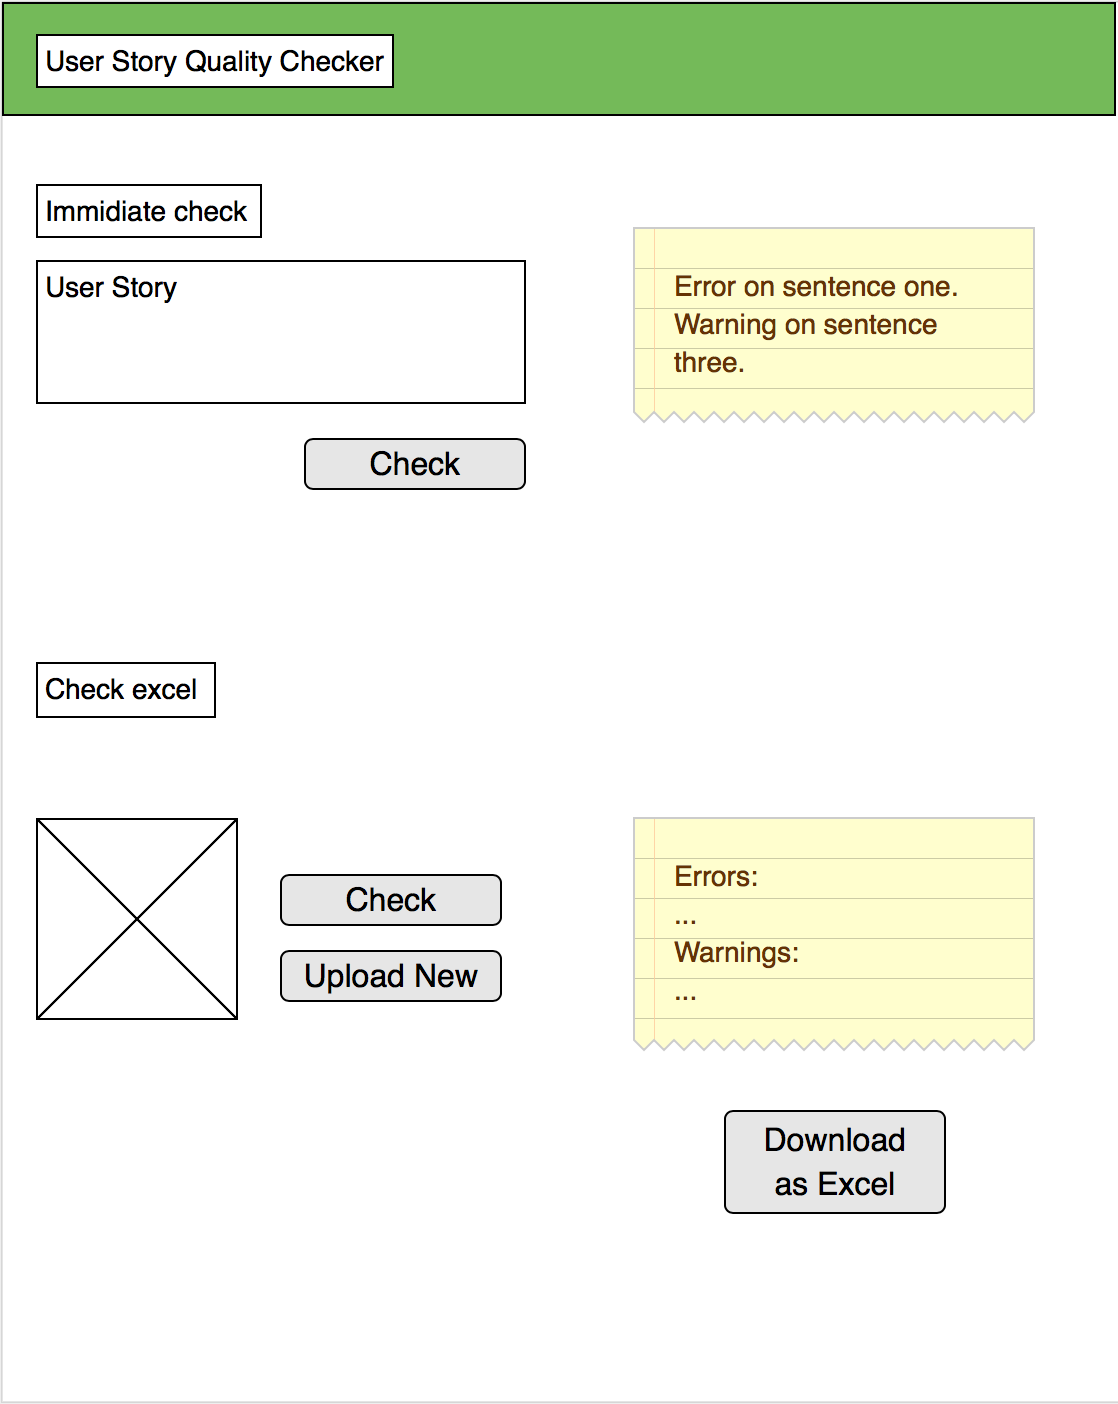
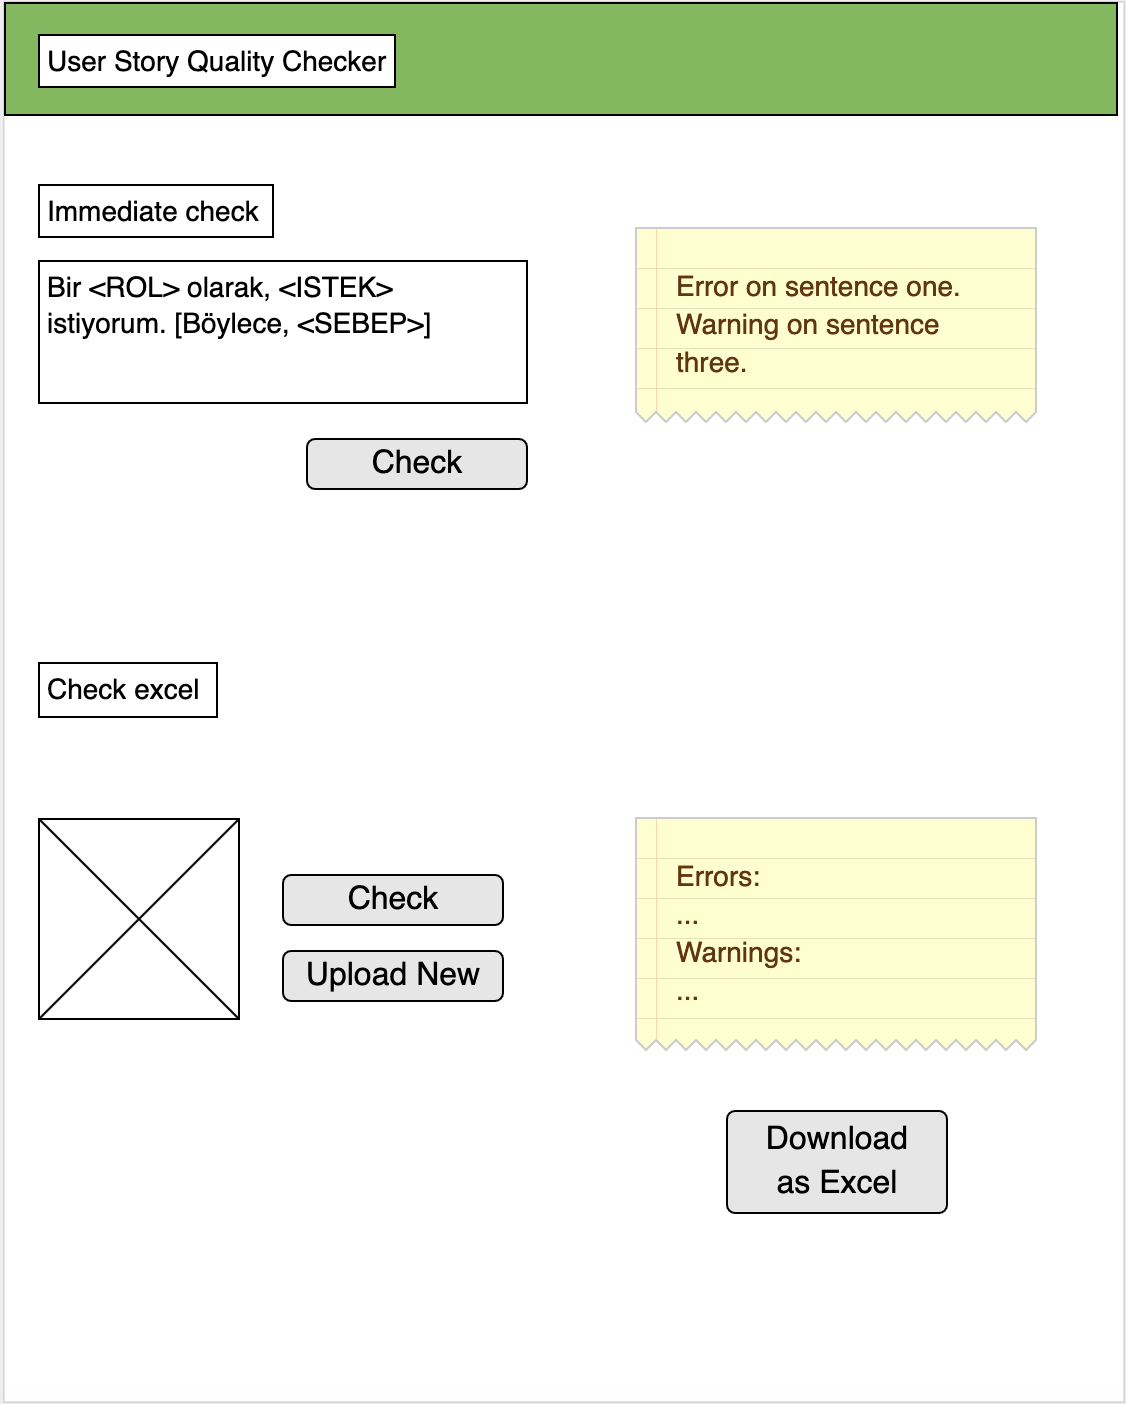
updated readme

diff --git a/README.md b/README.md
@@ -1,18 +1,33 @@
 # Cmpe492
-A tool for checking the quality of user stories in Turkish
+A tool for checking the quality of user stories in Turkish.
 
 ### Quality Metrics
 A user story should be:
 * Minimal
-* Unambigius
-* A Full Sentence
-* Atomic
-* Unique
-* Uniform
-* Independent
-* Well Formed
+There should not be additional notes about the story. Violating Example: "Bir sistem yöneticisi olarak, şifreleri sıfırlamak istiyorum. Not: yeni şifre rastgele oluşturulmalı ve mail olarak yollanmalı."
 
+* Unambiguous
+The user story should be clear. Violating Example: "Bir kullanıcı olarak, bir profil eklediğim içeriği değiştirebilmek istiyorum."
+
+* A Full Sentence
+The user story should be a full sentence without syntactic errors. It should have a subject and a verb. Violating Example: "Şifrelerin hashlenmesi"
+
+* Atomic
+The story should have one verb and it should not contain any conjunction words.  Violating Example: "Kullanıcı olarak, ödememi kredi kartı ile, EFT ile veya kapıda ödeyerek yapmak istiyorum."
+
+* Unique
+A requirement should have only one user story.
+
+* Uniform
+The story should follow the given user story template: "Bir <ROL> olarak, <ISTEK> istiyorum. [Böylece, <SEBEP>]". Violating Example: "Bir kullanıcı olarak, yeni mail geldiğinde bildirim almalıyım."
+
+* Independent
+Another user story should not be referenced.
 
 ### Mock-up
 
 ![Mock-up](https://raw.githubusercontent.com/akinilerle/Cmpe492/master/media/mock-up.png)
+
+### References
+
+* Lucassen, Garm, Fabiano Dalpiaz, Jan Martijn E. M. Van Der Werf, and Sjaak Brinkkemper. "Improving Agile Requirements: The Quality User Story Framework and Tool." Requirements Engineering 21, no. 3 (2016): 383-403. doi:10.1007/s00766-016-0250-x.
